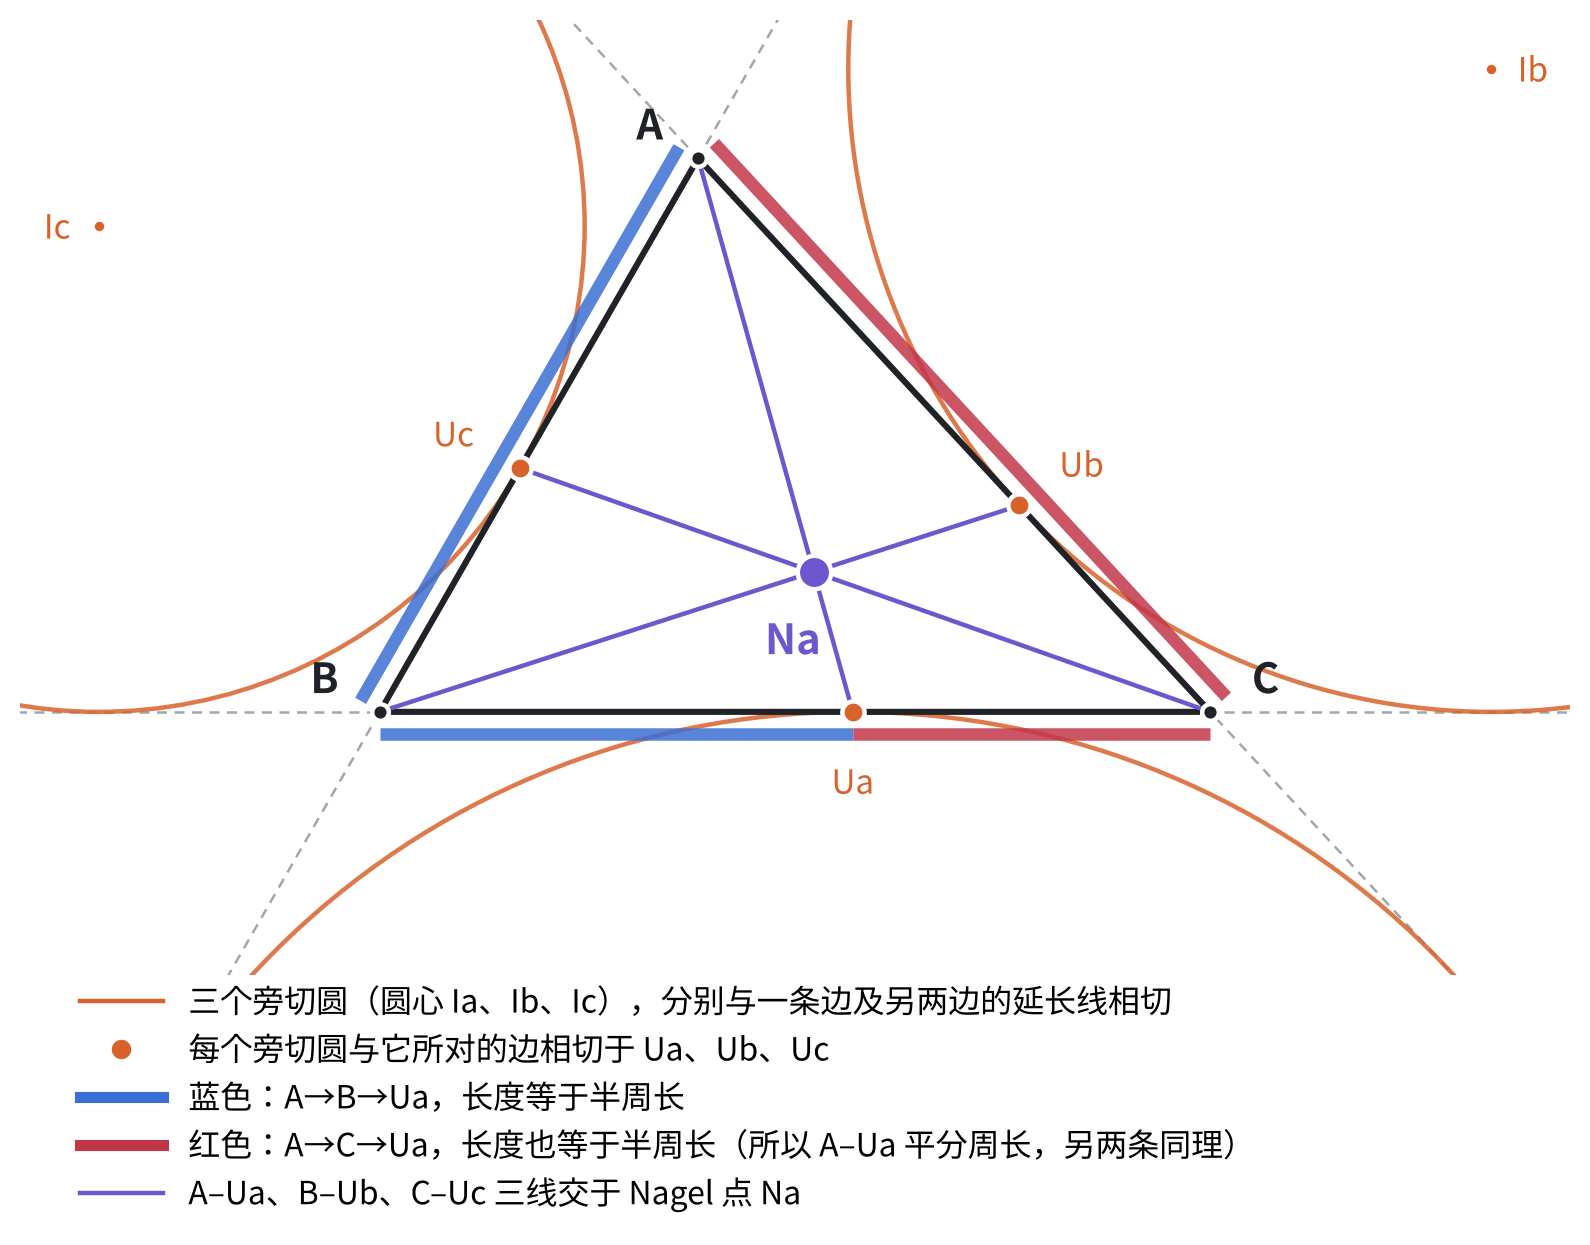
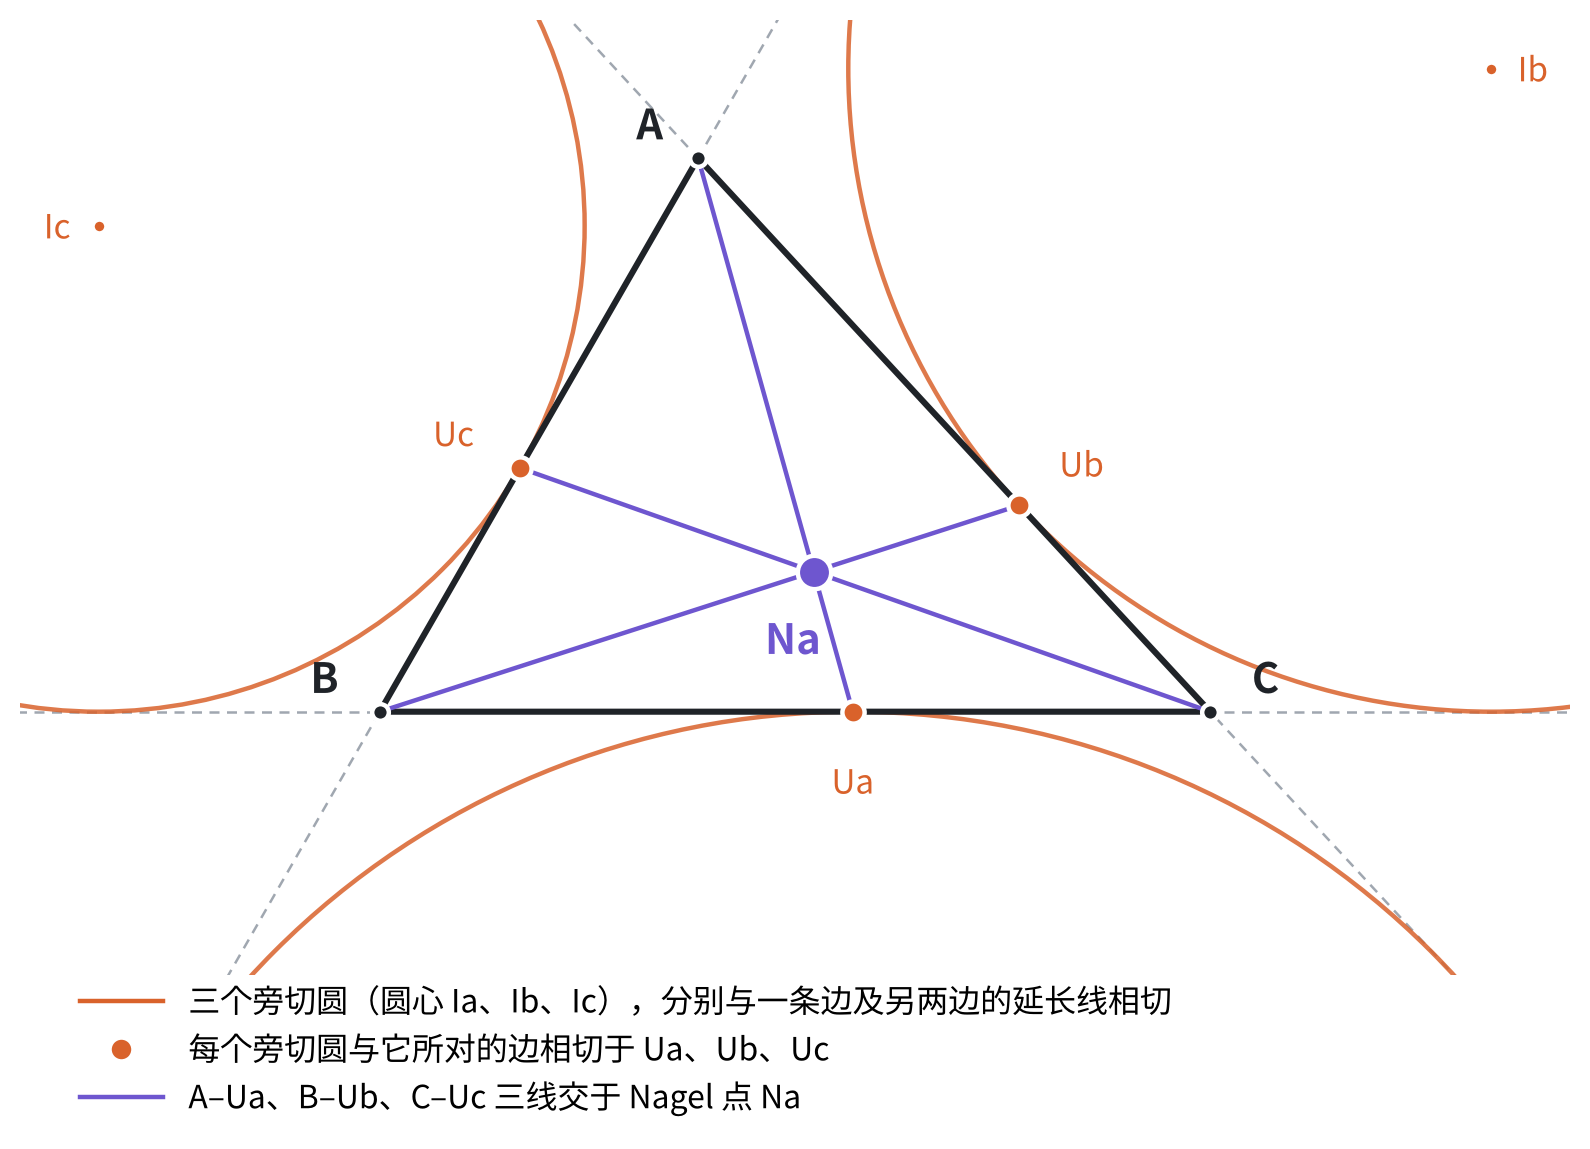
docs: Nagel 线图移到表 2 之后；更新 Nagel 点插图与图注
新版 nagel_point.png 去掉了半周长折线，图注相应改写。

diff --git a/docs/九点圆定理系统.md b/docs/九点圆定理系统.md
@@ -52,7 +52,7 @@ Nagel 点 Na
 
 <img src="../pics/nagel_point.png" alt="Nagel 点 Na" width="700">
 
-三个旁切圆（圆心 Ia、Ib、Ic）各与一条边及另两边的延长线相切，与所对的边切于 Ua、Ub、Uc。A→B→Ua 与 A→C→Ua 两条折线等长，都等于半周长，所以 A–Ua 平分周长，另两条同理；三线交于 Nagel 点 Na。
+三个旁切圆（圆心 Ia、Ib、Ic）各与一条边及另两边的延长线相切，与所对的边切于 Ua、Ub、Uc。A–Ua、B–Ub、C–Uc 三线交于 Nagel 点 Na。每条这样的线都平分周长：A 沿 B 走到 Ua 与 A 沿 C 走到 Ua 的路程相等，都等于半周长。
 
 Spieker 点 Sp
 
@@ -88,6 +88,10 @@ Feuerbach 定理：九点圆与内切圆相切，切点就是 Feuerbach 点 F。
 | 14 | A、Na、Ua（共 3 组） | Nagel 点的塞瓦线 | Na 就是这三条线的交点 |
 | 15 | F、I、N | 连心线 | 两圆相切，切点在连心线上；程序里 F 本来就取在 NI 上 |
 
+<img src="../pics/nagel_line.png" alt="Nagel 线：I、G、Sp、Na 共线" width="700">
+
+图：Nagel 线一侧的全部对象。绿色实线是内切圆（圆心 I，切点 Ta、Tb、Tc），绿色虚线是中点三角形的内切圆即 Spieker 圆（圆心 Sp）；淡蓝是三条中线，交于重心 G；橙色是顶点连对边上的旁切圆切点 Ua、Ub、Uc，交于 Nagel 点 Na。紫色粗线即 Nagel 线，I、G、Sp、Na 四点共线，IG : GNa = 1 : 2，Sp 是 I 与 Na 的中点，即表 2 第 2 行。这三个比例关系都来自同一个位似，见下文「欧拉线和 Nagel 线是同一个位似」。
+
 #### 表 3：找到的共圆（共 25 个圆）
 
 <b>没有新的共圆定理。</b>25 个圆全部已知：有内容的 3 个是已知定理（九点圆、Feuerbach 定理、Mandart 圆过 F），其余平凡。
@@ -122,10 +126,6 @@ Feuerbach 定理：九点圆与内切圆相切，切点就是 Feuerbach 点 F。
 | 对应的圆 | 外接圆 → 九点圆 | 内切圆 → Spieker 圆（中点三角形的内切圆） |
 
 位似中心、点、像三者共线，所以这两条线是同一个事实的两个特例，在网络里算一个节点。
-
-<img src="../pics/nagel_line.png" alt="Nagel 线：I、G、Sp、Na 共线" width="700">
-
-图：Nagel 线一侧的全部对象。绿色实线是内切圆（圆心 I，切点 Ta、Tb、Tc），绿色虚线是中点三角形的内切圆即 Spieker 圆（圆心 Sp）；淡蓝是三条中线，交于重心 G；橙色是顶点连对边上的旁切圆切点 Ua、Ub、Uc，交于 Nagel 点 Na。紫色粗线即 Nagel 线，I、G、Sp、Na 四点共线，IG : GNa = 1 : 2，Sp 是 I 与 Na 的中点——对照上表，这三个比例关系正是同一个位似在这一侧依次给出的像。
 
 #### 第一轮小结
 
